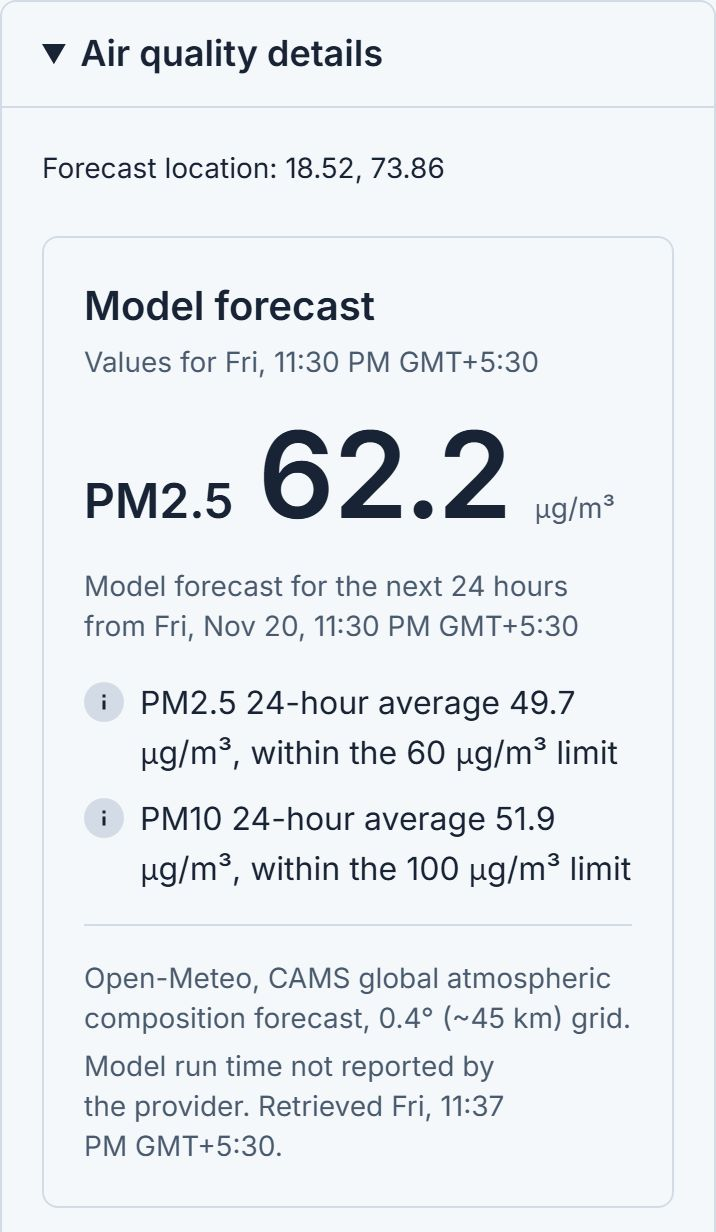
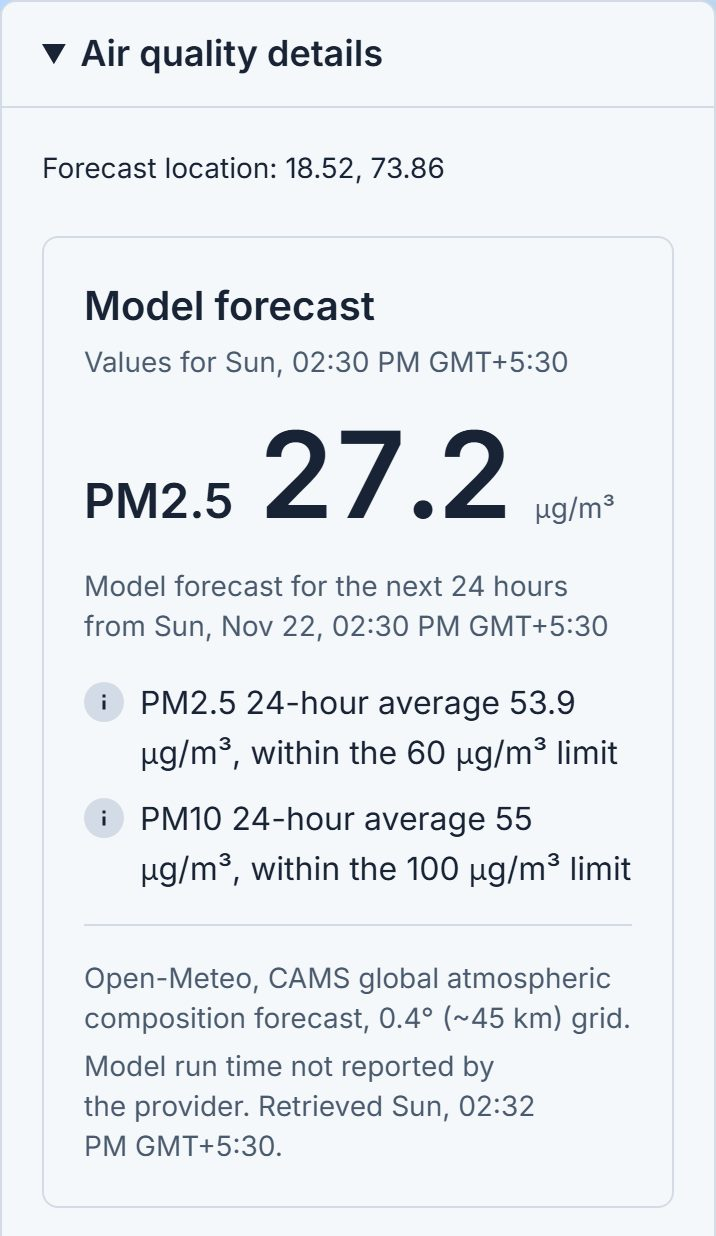
chore(landing): recapture both screenshots from the live app (22 Nov)
Live captures of the deployed app for Pune at 2:32 PM IST on 22 Nov
2026 (real Open-Meteo data, a fresh browser with no answers or
account), 390 px wide at 2x like the 20 Nov ones: the Today first
screen, now with the Mixed street city instead of the old arch, and
the open Air quality details (358 x 618 CSS, was 616). Both captions
carry the new date.

The e2e size check now compares the image's width and height with
the file at exactly 2x; the old ratio check would have let the stale
616 through (shown by setting it back: both projects failed).

diff --git a/client/src/pages/Landing.tsx b/client/src/pages/Landing.tsx
@@ -163,7 +163,7 @@ function Landing() {
             {/* The label first, so it never sits below the fold while the
                 screenshot is read as today's air. */}
             <figcaption className="text-sm text-text-muted">
-              A past screenshot of Today for Pune, 20 Nov 2026. Open the app for
+              A past screenshot of Today for Pune, 22 Nov 2026. Open the app for
               current values.
             </figcaption>
             <img
@@ -182,13 +182,13 @@ function Landing() {
           flip={false}
           heading="Understand your air"
           text="One sentence tells you how today's forecast compares with India's 24-hour limits, labelled Model forecast with the time it was updated. Every number, unit and source is one tap away, under Air quality details."
-          caption="A past screenshot of Air quality details for Pune, 20 Nov 2026. Open the app for current values."
+          caption="A past screenshot of Air quality details for Pune, 22 Nov 2026. Open the app for current values."
         >
           {/* A phone capture, like the hero's, at most its own CSS size. */}
           <img
             src={detailsShot}
             width={358}
-            height={616}
+            height={618}
             loading="lazy"
             alt="Screenshot of the open Air quality details for Pune: the PM2.5 model forecast for one hour with its unit, and the 24-hour check in words"
             className="h-auto w-full max-w-[358px] rounded-xl outline-1 -outline-offset-1 outline-rule-dark"

diff --git a/client/src/pages/Landing.test.tsx b/client/src/pages/Landing.test.tsx
@@ -34,7 +34,7 @@ const REAL_FIGURES = [
   '24-hour',
   '18 November 2009',
   // The screenshots' capture date.
-  '20 Nov 2026',
+  '22 Nov 2026',
 ];
 
 describe('Landing', () => {
@@ -84,9 +84,14 @@ describe('Landing', () => {
     expect(within(chapter).getByText(UNDERSTAND_TEXT)).toBeDefined();
     const image = within(chapter).getByAltText(DETAILS_ALT);
     expect(image.getAttribute('loading')).toBe('lazy');
+    // The 22 Nov capture's size in CSS px; e2e/landing.spec.ts checks it
+    // against the file itself (2x).
+    expect([image.getAttribute('width'), image.getAttribute('height')]).toEqual(
+      ['358', '618'],
+    );
     const caption = chapter.querySelector('figcaption');
     expect(caption?.textContent).toBe(
-      'A past screenshot of Air quality details for Pune, 20 Nov 2026. Open the app for current values.',
+      'A past screenshot of Air quality details for Pune, 22 Nov 2026. Open the app for current values.',
     );
     expect(
       caption!.compareDocumentPosition(image) &
@@ -233,7 +238,7 @@ describe('Landing', () => {
     const image = screen.getByAltText(HERO_ALT);
     const caption = image.closest('figure')?.querySelector('figcaption');
     expect(caption?.textContent).toBe(
-      'A past screenshot of Today for Pune, 20 Nov 2026. Open the app for current values.',
+      'A past screenshot of Today for Pune, 22 Nov 2026. Open the app for current values.',
     );
     // Final review B2: the label comes first, so it is never below the fold
     // while the figure shows.

diff --git a/e2e/landing.spec.ts b/e2e/landing.spec.ts
@@ -75,15 +75,18 @@ test('the details shot reads on a 320 px phone', async ({ page }) => {
       shown: img.getBoundingClientRect().width,
       // A 2× capture: its own CSS size is half its pixels.
       own: img.naturalWidth / 2,
-      file: img.naturalWidth / img.naturalHeight,
-      set:
-        Number(img.getAttribute('width')) / Number(img.getAttribute('height')),
+      file: [img.naturalWidth, img.naturalHeight],
+      set: [
+        2 * Number(img.getAttribute('width')),
+        2 * Number(img.getAttribute('height')),
+      ],
     };
   });
 
   expect(size.shown / size.own).toBeGreaterThan(0.75);
-  // Its width and height match the file, so nothing shifts as it loads.
-  expect(size.set).toBeCloseTo(size.file, 2);
+  // Its width and height are exactly the file's at 2×, so nothing shifts
+  // or stretches as it loads (a ratio check let a 2 px drift through).
+  expect(size.set).toEqual(size.file);
 });
 
 test('no movement under reduced motion', async ({ page }) => {

diff --git a/CHANGELOG.md b/CHANGELOG.md
@@ -167,7 +167,8 @@ This project follows a simple Keep a Changelog-inspired structure. Versions and 
   - a new city, "Mixed street", picked by the owner from three drawn variants: shop-houses with rooftop water tanks in front, older flats, balconied society blocks and glass offices behind, soft towers far away;
   - no landmark: the arch and the domed hall are gone, so no place gets another city's skyline;
   - the air look (sky, glow, haze) fades over 700 ms when it changes, and changes at once under reduced motion;
-  - on an overcast day the "within the limit" sky keeps its blue, so it never looks like "above the limit".
+  - on an overcast day the "within the limit" sky keeps its blue, so it never looks like "above the limit";
+  - the Landing page's two screenshots are recaptured from the live app (Pune, 22 Nov 2026, real Open-Meteo data), so the hero shows the new city; both captions carry the new date.
 
 ### Fixed
 - Phase 8: Gemini calls are capped at 200 per day per server and reused for identical requests; the Gemini key never follows a redirect; place labels reject control characters; the CPCB standards link uses https; a saved snapshot says "that day"; deleting one saved plan keeps keyboard focus and says so; a slow load no longer overwrites edited answers; the chart no longer assumes a unit.
